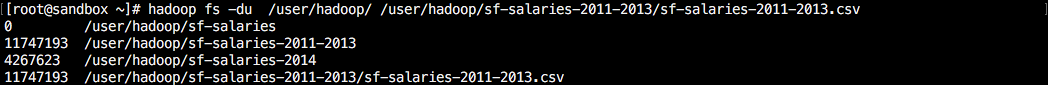
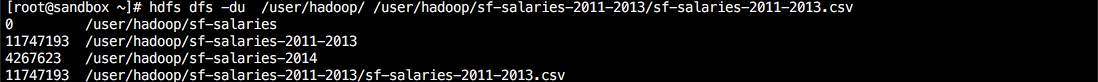
updated tutorial1
- updated the file system commands from `hadoop fs` to `hdfs dfs`
- updated 4 photos

diff --git a/tutorials/hortonworks/using-the-command-line-to-manage-files-on-hdfs/tutorial1.md b/tutorials/hortonworks/using-the-command-line-to-manage-files-on-hdfs/tutorial1.md
@@ -61,13 +61,21 @@ su hdfs
 cd
 ~~~
 
-### hadoop fs -chmod:
+We will use the following command to run filesystem commands on the file system of hadoop:
+
+~~~
+hdfs dfs [command_operation]
+~~~
+
+> Refer to the [File System Shell Guide](https://hadoop.apache.org/docs/r2.7.1/hadoop-project-dist/hadoop-common/FileSystemShell.html) to view various command_operations.
+
+### hdfs dfs -chmod:
 
 * Affects the permissions of the folder or file. Controls who has read/write/execute privileges
 * We will give root access to read and write to the user directory. Later we will perform an operation in which we send a file from our local filesystem to hdfs.
 
 ~~~
-hadoop fs -chmod 777 /user
+hdfs dfs -chmod 777 /user
 ~~~
 
 * Warning in production environments, setting the folder with the permissions above is not a good idea because anyone can read/write/execute files or folders.
@@ -78,48 +86,44 @@ Type the following command, so we can switch back to the root user. We can perfo
 exit
 ~~~
 
-### hadoop fs -mkdir:
+### hdfs dfs -mkdir:
 
 *   Takes the path uri's as an argument and creates a directory or multiple directories.
 
 ~~~
 # Usage:
-        # hadoop fs -mkdir <paths>
+        # hdfs dfs -mkdir <paths>
 # Example:
-        hadoop fs -mkdir /user/hadoop
-        hadoop fs -mkdir /user/hadoop/sf-salaries-2011-2013 /user/hadoop/sf-salaries /user/hadoop/sf-salaries-2014
+        hdfs dfs -mkdir /user/hadoop
+        hdfs dfs -mkdir /user/hadoop/sf-salaries-2011-2013 /user/hadoop/sf-salaries /user/hadoop/sf-salaries-2014
 ~~~
 
-![create_directories](/assets/using-the-command-line-to-manage-hdfs/tutorial1/create_directories.png)
 
-
-### hadoop fs -put:
+### hdfs dfs -put:
 
 *   Copies single src file or multiple src files from local file system to the Hadoop Distributed File System.
 
 ~~~
 # Usage:
-        # hadoop fs -put <local-src> ... <HDFS_dest_path>
+        # hdfs dfs -put <local-src> ... <HDFS_dest_path>
 # Example:
-        hadoop fs -put sf-salaries-2011-2013.csv /user/hadoop/sf-salaries-2011-2013/sf-salaries-2011-2013.csv
-        hadoop fs -put sf-salaries-2014.csv /user/hadoop/sf-salaries-2014/sf-salaries-2014.csv
+        hdfs dfs -put sf-salaries-2011-2013.csv /user/hadoop/sf-salaries-2011-2013/sf-salaries-2011-2013.csv
+        hdfs dfs -put sf-salaries-2014.csv /user/hadoop/sf-salaries-2014/sf-salaries-2014.csv
 ~~~
 
-![upload_files_localFS_to_hdfs](/assets/using-the-command-line-to-manage-hdfs/tutorial1/upload_files_localFS_to_hdfs.png)
 
-
-### hadoop fs -ls:
+### hdfs dfs -ls:
 
 *   Lists the contents of a directory
 *   For a file, returns stats of a file
 
 ~~~
 # Usage:  
-        # hadoop  fs  -ls  <args>  
+        # hdfs dfs  -ls  <args>  
 # Example:
-        hadoop fs -ls /user/hadoop
-        hadoop fs -ls /user/hadoop/sf-salaries-2011-2013
-        hadoop fs -ls /user/hadoop/sf-salaries-2011-2013/sf-salaries-2011-2013.csv
+        hdfs dfs -ls /user/hadoop
+        hdfs dfs -ls /user/hadoop/sf-salaries-2011-2013
+        hdfs dfs -ls /user/hadoop/sf-salaries-2011-2013/sf-salaries-2011-2013.csv
 ~~~
 
 ![list_folder_contents](/assets/using-the-command-line-to-manage-hdfs/tutorial1/list_folder_contents.png)
@@ -127,15 +131,15 @@ exit
 
 ### Step 2: Find Out Space Utilization in a HDFS Directory <a id="find-out-space-utilization-in-a-hdfs-directory"></a>
 
-### hadoop fs -du:
+### hdfs dfs -du:
 
 *   Displays size of files and directories contained in the given directory or the size of a file if its just a file.
 
 ~~~
 # Usage:  
-        # hadoop fs -du URI
+        # hdfs dfs -du URI
 # Example:
-        hadoop fs -du  /user/hadoop/ /user/hadoop/sf-salaries-2011-2013/sf-salaries-2011-2013.csv
+        hdfs dfs -du  /user/hadoop/ /user/hadoop/sf-salaries-2011-2013/sf-salaries-2011-2013.csv
 ~~~
 
 ![displays_entity_size](/assets/using-the-command-line-to-manage-hdfs/tutorial1/displays_entity_size.png)
@@ -143,23 +147,21 @@ exit
 
 ### Step 3: Download File From HDFS to Local File System <a id="download-files-hdfs-to-local-file-system"></a>
 
-### hadoop fs -get:
+### hdfs dfs -get:
 
 *   Copies/Downloads files from HDFS to the local file system
 
 ~~~
 # Usage:
-        # hadoop fs -get <hdfs_src> <localdst>
+        # hdfs dfs -get <hdfs_src> <localdst>
 # Example:
-        hadoop fs -get /user/hadoop/sf-salaries-2011-2013/sf-salaries-2011-2013.csv /home/
+        hdfs dfs -get /user/hadoop/sf-salaries-2011-2013/sf-salaries-2011-2013.csv /home/
 ~~~
-
-![copy_hdfs_file_to_localFS](/assets/using-the-command-line-to-manage-hdfs/tutorial1/copy_hdfs_file_to_localFS.png)
 
 
 ### Step 4: Explore Two Advanced Features <a id="explore-two-advanced-features"></a>
 
-### hadoop fs -getmerge
+### hdfs dfs -getmerge
 
 *   Takes a source directory file or files as input and concatenates files in src into the local destination file.
 *   Concatenates files in the same directory or from multiple directories as long as we specify their location and outputs them to the local file system, as can be seen in the **Usage** below.
@@ -167,45 +169,42 @@ exit
 
 ~~~
 # Usage:
-        # hadoop fs -getmerge <src> <localdst> [addnl]
-        # hadoop fs -getmerge <src1> <src2> <localdst> [addnl]
+        # hdfs dfs -getmerge <src> <localdst> [addnl]
+        # hdfs dfs -getmerge <src1> <src2> <localdst> [addnl]
 # Option:
         # addnl: can be set to enable adding a newline on end of each file
 # Example:
-        hadoop fs -getmerge /user/hadoop/sf-salaries-2011-2013/ /user/hadoop/sf-salaries-2014/ /root/output.csv
+        hdfs dfs -getmerge /user/hadoop/sf-salaries-2011-2013/ /user/hadoop/sf-salaries-2014/ /root/output.csv
 ~~~
 
-![concatenate_files_to_localFS](/assets/using-the-command-line-to-manage-hdfs/tutorial1/concatenate_files_to_localFS.png)
 
 > Merges the files in sf-salaries-2011-2013 and sf-salaries-2014 to output.csv in the root directory of the local filesystem. The first file contained about 120,000 rows and the second file contained almost 30,000 rows. This file operation is important because it will save you time from having to manually concatenate them.
 
 
-### hadoop distcp:
+### hdfs dfs -cp:
 
 *   Copy file or directories recursively, all the directory's files and subdirectories to the bottom of the directory tree are copied.
 *   It is a tool used for large inter/intra-cluster copying
-*   It uses MapReduce to effect its distribution copy, error handling and recovery, and reporting
 
 ~~~
 # Usage:
-        # hadoop distcp <src-url> <dest-url>
+        # hdfs dfs -cp <src-url> <dest-url>
 # Example:
-        hadoop distcp /user/hadoop/sf-salaries-2011-2013/ /user/hadoop/sf-salaries-2014/ /user/hadoop/sf-salaries
+        hdfs dfs -cp /user/hadoop/sf-salaries-2011-2013/ /user/hadoop/sf-salaries-2014/ /user/hadoop/sf-salaries
 ~~~
 
-![copy_recursively_srcDir_to_dest](/assets/using-the-command-line-to-manage-hdfs/tutorial1/copy_recursively_srcDir_to_dest.png)
 
-> distcp: copies sf-salaries-2011-2013, sf-salaries-2014 and all their contents to sf-salaries
+> -cp: copies sf-salaries-2011-2013, sf-salaries-2014 and all their contents to sf-salaries
 
 Verify the files or directories successfully copied to the destination folder:
 
 ~~~
-hadoop fs -ls /user/hadoop/sf-salaries/
-hadoop fs -ls /user/hadoop/sf-salaries/sf-salaries-2011-2013
-hadoop fs -ls /user/hadoop/sf-salaries/sf-salaries-2014
+hdfs dfs -ls /user/hadoop/sf-salaries/
+hdfs dfs -ls /user/hadoop/sf-salaries/sf-salaries-2011-2013
+hdfs dfs -ls /user/hadoop/sf-salaries/sf-salaries-2014
 ~~~
 
-![visual_result_of_distcp](/assets/using-the-command-line-to-manage-hdfs/tutorial1/visual_result_of_distcp.png)
+![visual_result_of_distcp](/assets/using-the-command-line-to-manage-hdfs/tutorial1/visual_result_of_cp.png)
 
 > Visual result of distcp file operation. Notice that both src1 and src2 directories and their contents were copied to the dest directory.
 
@@ -216,11 +215,11 @@ Help command opens the list of commands supported by Hadoop Data File System (HD
 
 ~~~
 # Example:  
-        hadoop  fs  -help
+        hdfs dfs  -help
 ~~~
 
 
-![hadoop_help_command_manual](/assets/using-the-command-line-to-manage-hdfs/step5_help_commandLineManageFiles_hdfs.png)
+![hadoop_help_command_manual](/assets/using-the-command-line-to-manage-hdfs/tutorial1/help_command.png)
 
 Hope this short tutorial was useful to get the basics of file management.
 
